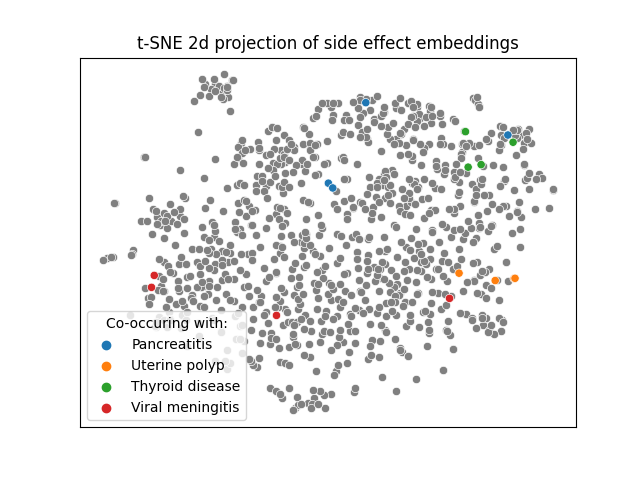
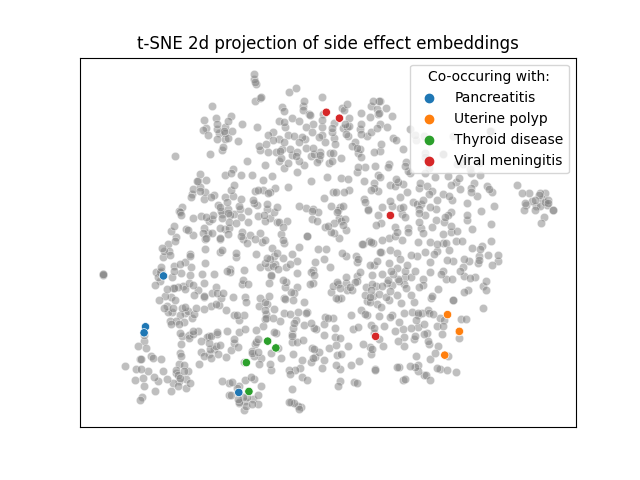
Reduced opacity of background points

diff --git a/analysis/assessment/results/2d_relation_projection.py b/analysis/assessment/results/2d_relation_projection.py
@@ -94,7 +94,7 @@ plot_df['group'] = target_group
 plt.clf()
 first_layer = plot_df.loc[pd.isna(plot_df.group)]
 second_layer = plot_df.loc[pd.notna(plot_df.group)]
-sns.scatterplot(first_layer, x=0, y=1, color='grey')
+sns.scatterplot(first_layer, x=0, y=1, color='grey', alpha=0.5)
 sns.scatterplot(second_layer, x=0, y=1, hue='group')
 plt.legend(title='Co-occuring with:')
 plt.xticks([])
